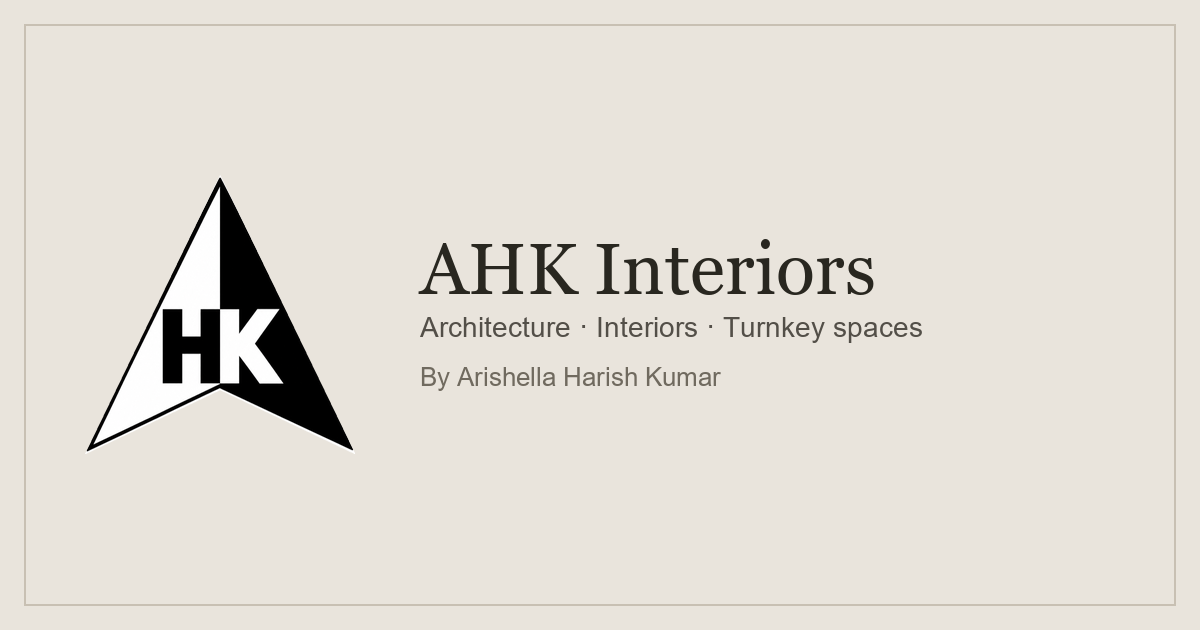
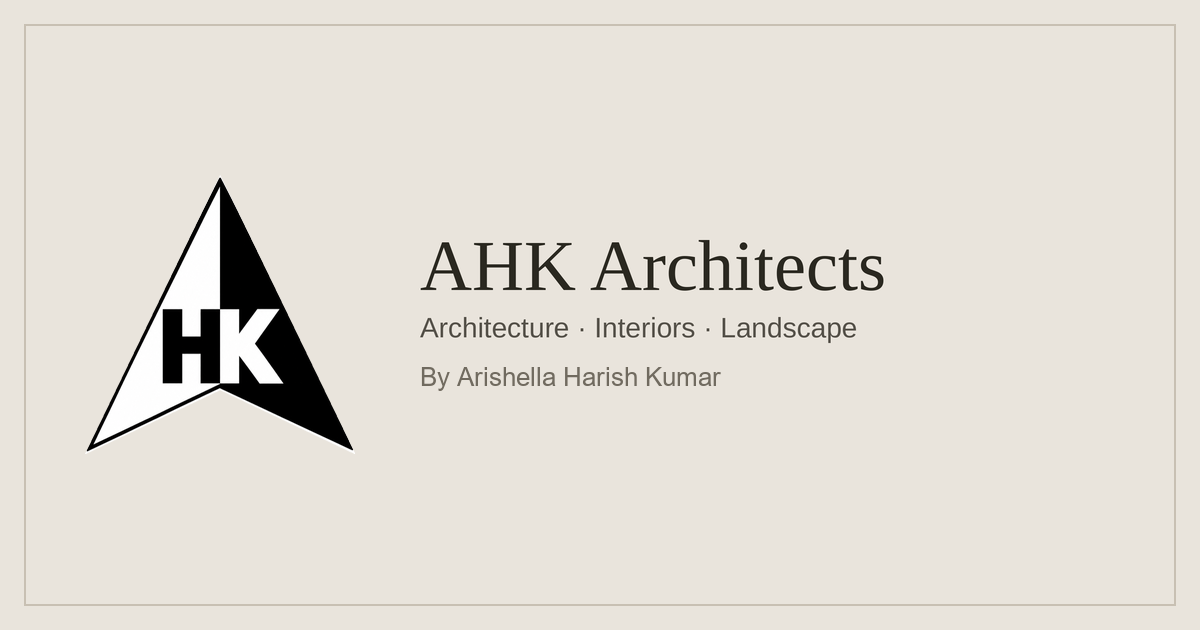
Update AHK Architects branding and service sections (#15)

Changed region(s): [[0.3392, 0.3619, 0.7708, 0.5429]]

diff --git a/index.html b/index.html
@@ -7,26 +7,26 @@
     <meta name="color-scheme" content="light dark" />
     <meta
       name="description"
-      content="AHK Interiors creates thoughtful homes and spaces through architecture, interior design, and turnkey execution."
+      content="AHK Architects creates thoughtful homes and spaces through architecture, interiors, and landscape design."
     />
-    <title>AHK Interiors | Thoughtful spaces, made personal</title>
-    <link rel="canonical" href="https://ahkdesign.github.io/" />
+    <title>AHK Architects | Thoughtful spaces, made personal</title>
+    <link rel="canonical" href="https://ahkarchitects.github.io/" />
     <link rel="icon" type="image/png" sizes="32x32" href="./assets/favicon-32.png" />
     <link rel="icon" type="image/svg+xml" sizes="any" href="./assets/ahk-logo.svg" />
     <meta property="og:type" content="website" />
-    <meta property="og:site_name" content="AHK Interiors" />
-    <meta property="og:title" content="AHK Interiors | Thoughtful spaces, made personal" />
-    <meta property="og:description" content="Architecture, interior design, and turnkey spaces by Arishella Harish Kumar." />
-    <meta property="og:url" content="https://ahkdesign.github.io/" />
-    <meta property="og:image" content="https://ahkdesign.github.io/assets/social-preview.png?v=3" />
+    <meta property="og:site_name" content="AHK Architects" />
+    <meta property="og:title" content="AHK Architects | Thoughtful spaces, made personal" />
+    <meta property="og:description" content="Architecture, interiors, and landscape design by Arishella Harish Kumar." />
+    <meta property="og:url" content="https://ahkarchitects.github.io/" />
+    <meta property="og:image" content="https://ahkarchitects.github.io/assets/social-preview.png?v=5" />
     <meta property="og:image:type" content="image/png" />
     <meta property="og:image:width" content="1200" />
     <meta property="og:image:height" content="630" />
-    <meta property="og:image:alt" content="AHK Interiors — Architecture, interiors, and turnkey spaces. By Arishella Harish Kumar." />
+    <meta property="og:image:alt" content="AHK Architects — Architecture, Interiors, Landscape. By Arishella Harish Kumar." />
     <meta name="twitter:card" content="summary_large_image" />
-    <meta name="twitter:title" content="AHK Interiors | Thoughtful spaces, made personal" />
-    <meta name="twitter:description" content="Architecture, interior design, and turnkey spaces by Arishella Harish Kumar." />
-    <meta name="twitter:image" content="https://ahkdesign.github.io/assets/social-preview.png?v=3" />
+    <meta name="twitter:title" content="AHK Architects | Thoughtful spaces, made personal" />
+    <meta name="twitter:description" content="Architecture, interiors, and landscape design by Arishella Harish Kumar." />
+    <meta name="twitter:image" content="https://ahkarchitects.github.io/assets/social-preview.png?v=5" />
     <link rel="stylesheet" href="./theme.css" />
     <script src="./theme.js"></script>
     <link rel="stylesheet" href="./styles.css" />
@@ -43,12 +43,12 @@
       </div>
     </div>
     <header class="site-header">
-      <a class="brand" href="./" aria-label="AHK Interiors home">
+      <a class="brand" href="./" aria-label="AHK Architects home">
         <img class="brand-logo" src="./assets/ahk-logo.svg" alt="" width="640" height="662" />
         <span class="brand-copy">
-          <span class="wordmark">AHK Interiors<span>.</span></span>
+          <span class="wordmark">AHK Architects<span>.</span></span>
           <span class="brand-services">
-            Architecture <span aria-hidden="true">·</span> Interiors <span aria-hidden="true">·</span> Turnkey spaces
+            Architecture <span aria-hidden="true">·</span> Interiors <span aria-hidden="true">·</span> Landscape
           </span>
         </span>
       </a>
@@ -82,9 +82,9 @@
           <nav class="menu-panel" aria-label="Main navigation">
             <a href="./" aria-current="page">Home</a>
             <span aria-disabled="true">About us <small>Coming soon</small></span>
-            <span aria-disabled="true">Architecture <small>Coming soon</small></span>
-            <span aria-disabled="true">Interiors <small>Coming soon</small></span>
-            <span aria-disabled="true">Landscape <small>Coming soon</small></span>
+            <a href="#architecture">Architecture</a>
+            <a href="#interiors">Interiors</a>
+            <a href="#landscape">Landscape</a>
             <a href="./contact.html">Contact us</a>
           </nav>
         </details>
@@ -120,6 +120,18 @@
         <div class="project-list" id="project-list" aria-label="Project concepts"></div>
         <noscript><p class="disclaimer">Enable JavaScript to load project summaries and open project details.</p></noscript>
       </section>
+      <section class="service-section" id="architecture" aria-labelledby="architecture-title">
+        <h2 id="architecture-title">Architecture</h2>
+        <p>Coming soon.</p>
+      </section>
+      <section class="service-section" id="interiors" aria-labelledby="interiors-title">
+        <h2 id="interiors-title">Interiors</h2>
+        <p>Coming soon.</p>
+      </section>
+      <section class="service-section" id="landscape" aria-labelledby="landscape-title">
+        <h2 id="landscape-title">Landscape</h2>
+        <p>Coming soon.</p>
+      </section>
     </main>
 
     <dialog class="project-dialog" id="project-dialog" aria-labelledby="project-dialog-title">
@@ -140,12 +152,12 @@
       </div>
       <div class="contact-details">
         <p class="contact-prompt">Project enquiries<br />Tell us about your space.</p>
-        <nav class="contact-links" data-contact-links-source aria-label="Contact AHK Interiors">
-          <a class="contact-link whatsapp-link" href="https://wa.me/917780412526" target="_blank" rel="noopener noreferrer" aria-label="Contact AHK Interiors on WhatsApp (opens in a new tab)">
+        <nav class="contact-links" data-contact-links-source aria-label="Contact AHK Architects">
+          <a class="contact-link whatsapp-link" href="https://wa.me/917780412526" target="_blank" rel="noopener noreferrer" aria-label="Contact AHK Architects on WhatsApp (opens in a new tab)">
             <img src="https://cdn.simpleicons.org/whatsapp/25D366" alt="" width="24" height="24" referrerpolicy="no-referrer" />
             WhatsApp
           </a>
-          <a class="contact-link email-link" href="mailto:arishellaharish@gmail.com" aria-label="Email AHK Interiors">
+          <a class="contact-link email-link" href="mailto:arishellaharish@gmail.com" aria-label="Email AHK Architects">
             <img src="https://cdn.simpleicons.org/gmail/EA4335" alt="" width="24" height="24" referrerpolicy="no-referrer" />
             Email
           </a>
@@ -153,7 +165,7 @@
         <p>Arishella Harish Kumar<br />Interior architecture &amp; design</p>
         <a class="back-to-top" href="#home">Back to top ↑</a>
       </div>
-      <p class="footer-note">© <span id="year">2026</span> AHK Interiors <span>·</span> Thoughtfully designed, beautifully lived.</p>
+      <p class="footer-note">© <span id="year">2026</span> AHK Architects <span>·</span> Thoughtfully designed, beautifully lived.</p>
     </footer>
   </body>
 </html>

diff --git a/contact.html b/contact.html
@@ -5,22 +5,22 @@
     <meta name="viewport" content="width=device-width, initial-scale=1" />
     <meta name="theme-color" content="#f4f1eb" />
     <meta name="color-scheme" content="light dark" />
-    <meta name="description" content="Contact AHK Interiors and Arishella Harish Kumar for architecture, interior design, and turnkey spaces. Reach us by phone, WhatsApp, or email." />
-    <title>Contact us | AHK Interiors</title>
-    <link rel="canonical" href="https://ahkdesign.github.io/contact.html" />
+    <meta name="description" content="Contact AHK Architects and Arishella Harish Kumar for architecture, interiors, and landscape design. Reach us by phone, WhatsApp, or email." />
+    <title>Contact us | AHK Architects</title>
+    <link rel="canonical" href="https://ahkarchitects.github.io/contact.html" />
     <link rel="icon" type="image/png" sizes="32x32" href="./assets/favicon-32.png" />
     <link rel="icon" type="image/svg+xml" sizes="any" href="./assets/ahk-logo.svg" />
     <meta property="og:type" content="website" />
-    <meta property="og:site_name" content="AHK Interiors" />
-    <meta property="og:title" content="Contact us | AHK Interiors" />
+    <meta property="og:site_name" content="AHK Architects" />
+    <meta property="og:title" content="Contact us | AHK Architects" />
     <meta property="og:description" content="Get in touch with Arishella Harish Kumar for thoughtful homes and spaces." />
-    <meta property="og:url" content="https://ahkdesign.github.io/contact.html" />
-    <meta property="og:image" content="https://ahkdesign.github.io/assets/social-preview.png?v=3" />
-    <meta property="og:image:alt" content="AHK Interiors — Architecture, interiors, and turnkey spaces. By Arishella Harish Kumar." />
+    <meta property="og:url" content="https://ahkarchitects.github.io/contact.html" />
+    <meta property="og:image" content="https://ahkarchitects.github.io/assets/social-preview.png?v=5" />
+    <meta property="og:image:alt" content="AHK Architects — Architecture, Interiors, Landscape. By Arishella Harish Kumar." />
     <meta name="twitter:card" content="summary_large_image" />
-    <meta name="twitter:title" content="Contact us | AHK Interiors" />
+    <meta name="twitter:title" content="Contact us | AHK Architects" />
     <meta name="twitter:description" content="Get in touch with Arishella Harish Kumar for thoughtful homes and spaces." />
-    <meta name="twitter:image" content="https://ahkdesign.github.io/assets/social-preview.png?v=3" />
+    <meta name="twitter:image" content="https://ahkarchitects.github.io/assets/social-preview.png?v=5" />
     <link rel="stylesheet" href="./theme.css" />
     <script src="./theme.js"></script>
     <link rel="stylesheet" href="./styles.css" />
@@ -36,12 +36,12 @@
       </div>
     </div>
     <header class="site-header">
-      <a class="brand" href="./" aria-label="AHK Interiors home">
+      <a class="brand" href="./" aria-label="AHK Architects home">
         <img class="brand-logo" src="./assets/ahk-logo.svg" alt="" width="640" height="662" />
         <span class="brand-copy">
-          <span class="wordmark">AHK Interiors<span>.</span></span>
+          <span class="wordmark">AHK Architects<span>.</span></span>
           <span class="brand-services">
-            Architecture <span aria-hidden="true">·</span> Interiors <span aria-hidden="true">·</span> Turnkey spaces
+            Architecture <span aria-hidden="true">·</span> Interiors <span aria-hidden="true">·</span> Landscape
           </span>
         </span>
       </a>
@@ -75,9 +75,9 @@
           <nav class="menu-panel" aria-label="Main navigation">
             <a href="./">Home</a>
             <span aria-disabled="true">About us <small>Coming soon</small></span>
-            <span aria-disabled="true">Architecture <small>Coming soon</small></span>
-            <span aria-disabled="true">Interiors <small>Coming soon</small></span>
-            <span aria-disabled="true">Landscape <small>Coming soon</small></span>
+            <a href="./#architecture">Architecture</a>
+            <a href="./#interiors">Interiors</a>
+            <a href="./#landscape">Landscape</a>
             <a href="./contact.html" aria-current="page">Contact us</a>
           </nav>
         </details>
@@ -104,12 +104,12 @@
               <dd><a href="mailto:arishellaharish@gmail.com">arishellaharish@gmail.com</a></dd>
             </div>
           </dl>
-          <nav class="contact-links" data-contact-links-source aria-label="Contact AHK Interiors">
-            <a class="contact-link whatsapp-link" href="https://wa.me/917780412526" target="_blank" rel="noopener noreferrer" aria-label="Contact AHK Interiors on WhatsApp (opens in a new tab)">
+          <nav class="contact-links" data-contact-links-source aria-label="Contact AHK Architects">
+            <a class="contact-link whatsapp-link" href="https://wa.me/917780412526" target="_blank" rel="noopener noreferrer" aria-label="Contact AHK Architects on WhatsApp (opens in a new tab)">
               <img src="https://cdn.simpleicons.org/whatsapp/25D366" alt="" width="24" height="24" referrerpolicy="no-referrer" />
               WhatsApp
             </a>
-            <a class="contact-link email-link" href="mailto:arishellaharish@gmail.com" aria-label="Email AHK Interiors">
+            <a class="contact-link email-link" href="mailto:arishellaharish@gmail.com" aria-label="Email AHK Architects">
               <img src="https://cdn.simpleicons.org/gmail/EA4335" alt="" width="24" height="24" referrerpolicy="no-referrer" />
               Email
             </a>
@@ -118,7 +118,7 @@
       </div>
     </main>
     <footer class="contact-page-footer">
-      <p class="footer-note">&copy; 2026 AHK Interiors <span>&middot;</span> Thoughtfully designed, beautifully lived.</p>
+      <p class="footer-note">&copy; 2026 AHK Architects <span>&middot;</span> Thoughtfully designed, beautifully lived.</p>
     </footer>
   </body>
 </html>

diff --git a/styles.css b/styles.css
@@ -540,12 +540,22 @@ h1 em,
   padding: 0 10vw 2.5rem;
 }
 
-.section-heading h2 {
+.section-heading h2,
+.service-section h2 {
   margin: 0.6rem 0 0;
   font-family: var(--serif);
   font-size: clamp(2.6rem, 5vw, 4.5rem);
   font-weight: 400;
   letter-spacing: -0.06em;
+}
+
+.service-section {
+  padding: 4rem 10vw;
+  border-top: 1px solid var(--line);
+}
+
+.service-section p {
+  color: var(--muted);
 }
 
 .scroll-hint {
@@ -1110,8 +1120,13 @@ button.text-link {
     padding: 0 1.5rem 1.5rem;
   }
 
-  .section-heading h2 {
+  .section-heading h2,
+  .service-section h2 {
     font-size: 3rem;
+  }
+
+  .service-section {
+    padding: 3rem 1.5rem;
   }
 
   .scroll-hint {

diff --git a/README.md b/README.md
@@ -1,6 +1,6 @@
-# AHK Interiors
+# AHK Architects
 
-Official static portfolio website for AHK Interiors (Arishella Harish Kumar), built with plain HTML, CSS, and a small JavaScript project-detail view for GitHub Pages. Project content lives in repository folders; no CMS, private credentials, or separate project HTML pages are required.
+Official static portfolio website for AHK Architects (Arishella Harish Kumar), built with plain HTML, CSS, and a small JavaScript project-detail view for GitHub Pages. The organization is `ahkarchitects` and the repository is `ahkarchitects/ahkarchitects.github.io`. Project content lives in repository folders; no CMS, private credentials, or separate project HTML pages are required.
 
 ## Local development
 
@@ -34,7 +34,7 @@ Maintain both palettes in `theme.css`: each `light-dark(light, dark)` value pair
 
 In the repository, open **Settings → Pages** and set **Build and deployment → Source** to **Deploy from a branch**, then select **main** and **/ (root)** and save. If you switched the source to GitHub Actions while trying the earlier build-based approach, switch it back.
 
-Merge the website changes into `main`. GitHub Pages publishes the repository's static files at `https://ahkdesign.github.io/`; subsequent commits to `main` update the site automatically. This project does not need a Python build script or a custom publishing workflow. GitHub may show its own managed Pages deployment in the Actions tab; that does not mean you need to maintain an Actions workflow.
+Merge the website changes into `main`. GitHub Pages publishes the repository's static files at `https://ahkarchitects.github.io/`; subsequent commits to `main` update the site automatically. Keep the repository name `ahkarchitects.github.io` to serve the organization site at this root address. This project does not need a Python build script or a custom publishing workflow. GitHub may show its own managed Pages deployment in the Actions tab; that does not mean you need to maintain an Actions workflow.
 
 To use a custom domain you own, configure it in GitHub Pages and add the corresponding DNS records. That makes the custom domain the address of this site, not a separate production deployment alongside staging.
 
@@ -42,11 +42,11 @@ To use a custom domain you own, configure it in GitHub Pages and add the corresp
 
 The north-arrow logo is drawn as vector paths in `assets/ahk-logo.svg`, shared by the page and SVG-capable browser tabs so it stays sharp at any size. `assets/favicon-32.png` is a fallback for browsers without SVG favicon support. The 1200-by-630 `assets/social-preview.png` is a raster sharing card referenced by Open Graph and Twitter card metadata; many sharing services do not accept SVG preview images.
 
-The sharing card uses the logo, AHK Interiors name, services, and "By Arishella Harish Kumar" byline without contact links or the old coming-soon message. It is a manually maintained PNG, not a live rendering of the header, so it needs no image-generation pipeline. The `?v=3` query in both preview-image URLs distinguishes the updated image for caches; bump that version when replacing the card again. Sharing platforms can also cache the page metadata, so existing shares may still need a preview refresh after deployment.
+The sharing card uses the logo, AHK Architects name, Architecture, Interiors, and Landscape labels, and "By Arishella Harish Kumar" byline without contact links or the old coming-soon message. It is a manually maintained PNG, not a live rendering of the header, so it needs no image-generation pipeline. The `?v=5` query in both pages' preview-image URLs distinguishes the updated image for caches; bump that version when replacing the card again. Sharing platforms can also cache the page metadata, so existing shares may still need a preview refresh after deployment.
 
 There is no Apple-specific home-screen icon. Without one, iOS may use a page snapshot or generic icon depending on the browser/version; the PNG favicon is not a guaranteed home-screen fallback. The website itself is unaffected.
 
-When changing the public domain, update the canonical URL, Open Graph URL, and absolute preview-image URLs in `index.html`. Sharing services and browsers may cache old previews and icons; new assets must be deployed before external services can retrieve them.
+When changing the public domain, update the canonical URL, Open Graph URL, and absolute preview-image URLs in both `index.html` and `contact.html`, as well as the repository About website and organization profile website. Sharing services and browsers may cache old previews and icons; new assets must be deployed before external services can retrieve them.
 
 ## Portfolio images
 
@@ -122,11 +122,11 @@ All content and uploaded files are public. The site keeps its homepage SEO and s
 
 ## Header and contact links
 
-The sticky top bar, left-aligned theme picker, and right-aligned Menu remain available while scrolling on Home and Contact Us. The native expandable menu lists Home, About Us, Architecture, Interiors, Landscape, and Contact Us with full-width divided rows and a close control. Only Home (`./`) and Contact Us (`./contact.html`) are implemented; the other entries are non-interactive and marked **Coming soon**, not broken links or empty pages. The active page is identified with `aria-current="page"`. `site-navigation.js` adds Escape-to-close with focus restoration, outside-click dismissal, and dismissal when following a link. Opening, closing, and following links also work without JavaScript.
+The sticky top bar, left-aligned theme picker, and right-aligned Menu remain available while scrolling on Home and Contact Us. The native expandable menu lists Home, About Us, Architecture, Interiors, Landscape, and Contact Us with full-width divided rows and a close control. Home (`./`) and Contact Us (`./contact.html`) are implemented. Architecture, Interiors, and Landscape link to the homepage's corresponding sections (`#architecture`, `#interiors`, and `#landscape`), currently labeled **Coming soon** until content is supplied. Edit these sections in `index.html`; there is no Turnkey section. About Us remains non-interactive and marked **Coming soon**. The active page is identified with `aria-current="page"`. `site-navigation.js` adds Escape-to-close with focus restoration, outside-click dismissal, and dismissal when following a link. Opening, closing, and following links also work without JavaScript.
 
 `contact.html` contains the existing Arishella Harish Kumar identity, a clickable Indian phone number (**+91 77804 12526**), WhatsApp, and email. It uses the same theme storage and opening animation as the homepage; it does not load the homepage's project scripts. Header markup is kept explicitly in both HTML pages so branding and navigation remain available without a build step or JavaScript. When updating the shared header or menu, keep `index.html` and `contact.html` in sync and retain each page's own active-menu marker.
 
-The header contains the larger AHK logo and wordmark, with Architecture, Interiors, and Turnkey spaces on one line beneath the name. The hero no longer repeats the logo, services, or a shortcut to the project section immediately below it.
+The header contains the larger AHK logo and wordmark, with Architecture, Interiors, and Landscape on one line beneath the name. The hero no longer repeats the logo, services, or a shortcut to the project section immediately below it. Existing project scope metadata still describes each project's work independently of these navigation labels.
 
 Each page defines a single contact group under `data-contact-links-source`: the footer in `index.html` and the main contact section in `contact.html`. The small local `contact-links.js` script copies that group into the header, so both locations use the same links, labels, icons, and styles. Edit the source group once to update both locations. On mobile, the header stacks the compact WhatsApp and Email links alongside the brand, while the services remain on one line. Without JavaScript, the header's Contact link leads to the Contact Us page; each page's original contact group still works.
 
